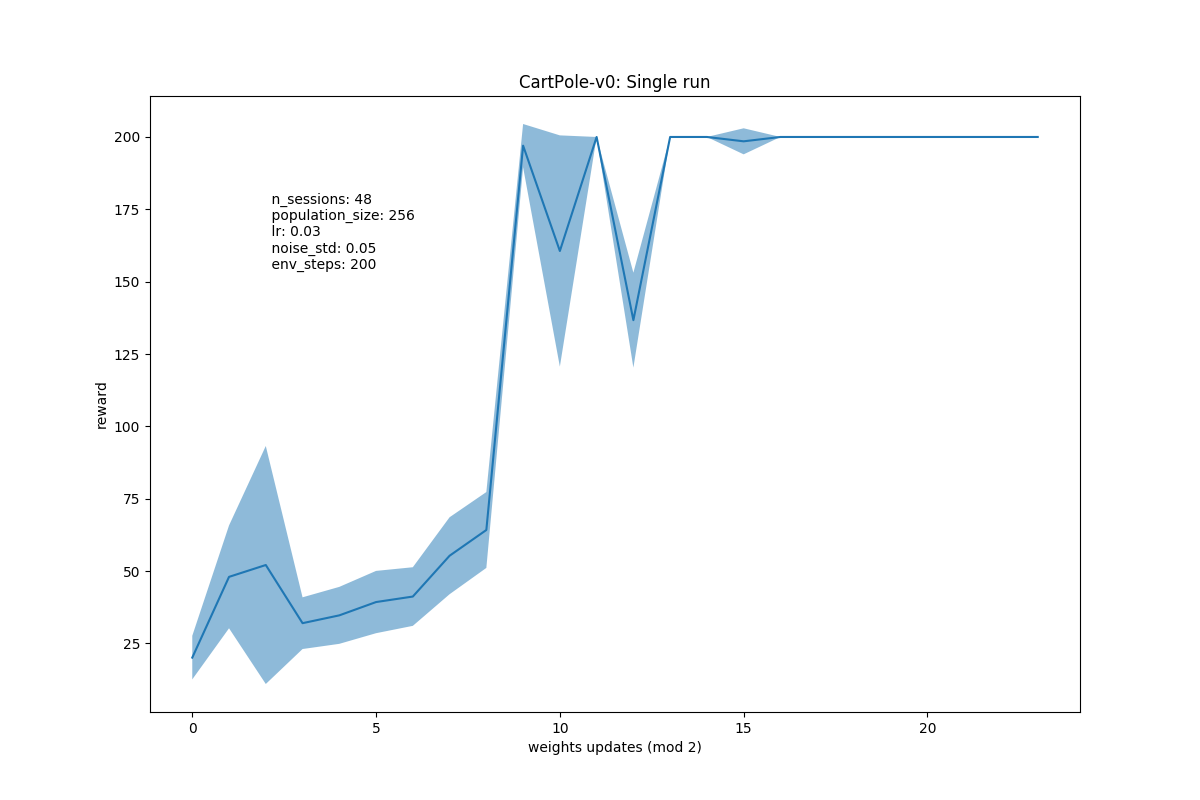
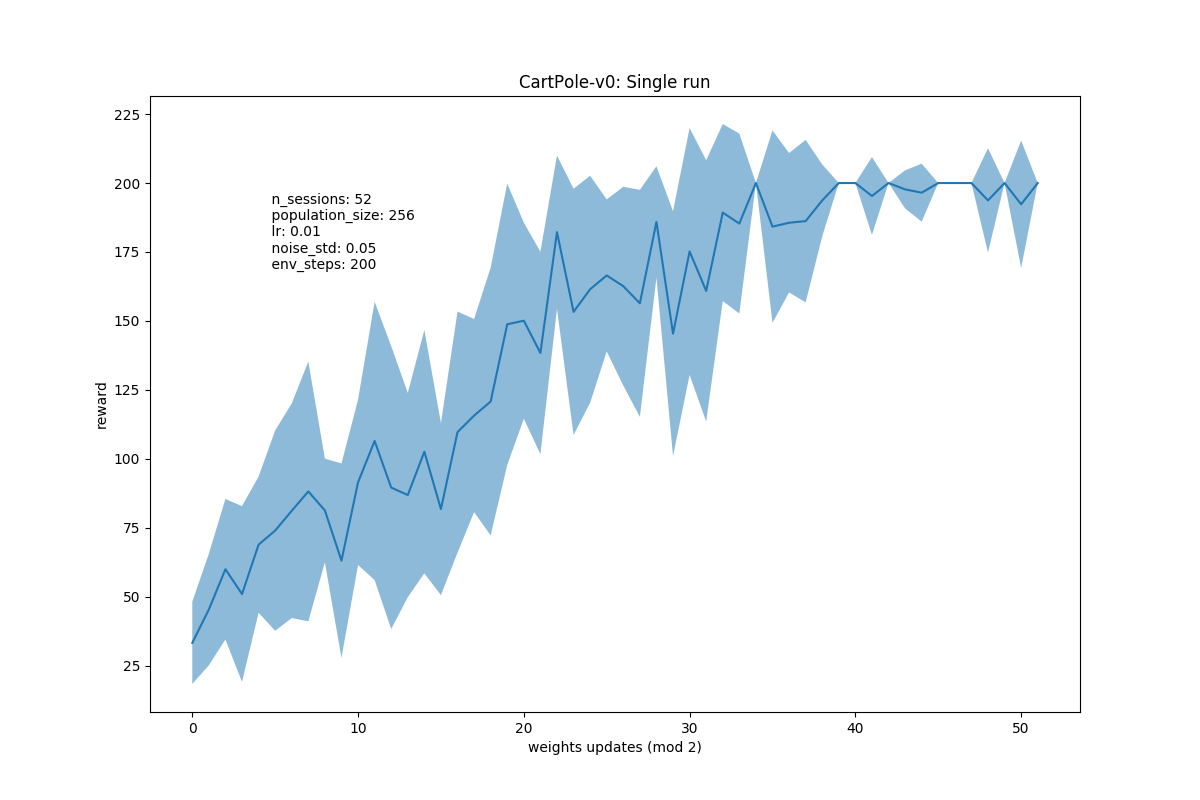
refactor a bit

diff --git a/training.py b/training.py
@@ -1,17 +1,16 @@
 import gym
-
 import numpy as np
-import matplotlib.pyplot as plt
 
 from linear import ThreeLayerNetwork
 from evaluation import eval_policy
 from es import OpenAiES
+from plot import plot_rewards
 
 from collections import defaultdict
 from tqdm import tqdm
 
 
-def train_loop(policy, env, config, log_best=True):
+def train_loop(policy, env, config):
     es = OpenAiES(policy, learning_rate=config["learning_rate"], noise_std=config["noise_std"])
 
     log = defaultdict(list)
@@ -23,22 +22,18 @@ def train_loop(policy, env, config, log_best=True):
             rewards[i] = eval_policy(new_policy, env, n_steps=config["env_steps"])
 
         es.update_population(rewards)
-
-        print(f"Session: {session}") 
-        print(np.mean(rewards))
-        print(np.std(rewards))
         
-        # training stats
-        log["pop_mean_rewards"].append(np.mean(rewards))
-        log["pop_std_rewards"].append(np.std(rewards))
-
         # best policy stats
-        if log_best and session % 2 == 0:
+        if session % 2 == 0:
             best_policy = es.get_model()
 
             best_rewards = np.zeros(10)
             for i in range(10):
                 best_rewards[i] = eval_policy(best_policy, env, n_steps=config["env_steps"])
+
+            print(f"Session: {session}") 
+            print(np.mean(rewards))
+            print(np.std(rewards))
 
             log["best_mean_rewards"].append(np.mean(best_rewards))
             log["best_std_rewards"].append(np.std(best_rewards))            
@@ -47,7 +42,7 @@ def train_loop(policy, env, config, log_best=True):
 
 
 def run_experiment(config):
-    env = gym.make("CartPole-v0")
+    env = gym.make(config["env"])
 
     n_actions = env.action_space.n
     n_states = env.observation_space.shape[0]
@@ -61,44 +56,4 @@ def run_experiment(config):
 
     plot_rewards(log["best_mean_rewards"], log["best_std_rewards"], config)
 
-
-def plot_rewards(mean_rewards, std_rewards, config):
-    best_mean = np.array(mean_rewards)
-    best_std = np.array(std_rewards)
-
-    stats = (
-    f"""
-    n_sessions: {config["n_sessions"]}
-    population_size: {config["population_size"]}
-    lr: {config["learning_rate"]}
-    noise_std: {config["noise_std"]}
-    env_steps: {config["env_steps"]}
-    """
-    )
-    
-    fig, ax = plt.subplots()
-    plt.figure(figsize=(12, 8))
-    plt.text(0.35, 1.25, stats, transform=ax.transAxes)
-    plt.title("CartPole-v0: Single run")
-    plt.plot(np.arange(best_mean.shape[0]), best_mean)
-    plt.fill_between(np.arange(best_mean.shape[0]), best_mean + best_std, best_mean - best_std, alpha=0.5)
-    plt.xlabel("weights updates (mod 2)")
-    plt.ylabel("reward")
-    plt.savefig(f'plots/{config["experiment_name"]}.png')
-
-
-def main():
-    test_config = {
-        "experiment_name": "test_single_v5",
-        "n_sessions": 48,
-        "env_steps": 200, 
-        "population_size": 256,
-        "learning_rate": 0.03,
-        "noise_std": 0.05,
-        "hidden_sizes": (32, 32)
-    }
-    run_experiment(test_config)
-
-
-if __name__ == "__main__":
-    main()
+    return policy

diff --git a/plot.py b/plot.py
@@ -1,0 +1,27 @@
+import numpy as np
+import matplotlib.pyplot as plt
+
+
+def plot_rewards(mean_rewards, std_rewards, config):
+    best_mean = np.array(mean_rewards)
+    best_std = np.array(std_rewards)
+
+    stats = (
+    f"""
+    n_sessions: {config["n_sessions"]}
+    population_size: {config["population_size"]}
+    lr: {config["learning_rate"]}
+    noise_std: {config["noise_std"]}
+    env_steps: {config["env_steps"]}
+    """
+    )
+    
+    fig, ax = plt.subplots()
+    plt.figure(figsize=(12, 8))
+    plt.text(0.35, 1.25, stats, transform=ax.transAxes)
+    plt.title(f"{config['env']}: Single run")
+    plt.plot(np.arange(best_mean.shape[0]), best_mean)
+    plt.fill_between(np.arange(best_mean.shape[0]), best_mean + best_std, best_mean - best_std, alpha=0.5)
+    plt.xlabel("weights updates (mod 2)")
+    plt.ylabel("reward")
+    plt.savefig(f'plots/{config["experiment_name"]}.png')

diff --git a/tests/mountain_car.py b/tests/mountain_car.py
@@ -1,0 +1,28 @@
+import pickle
+import sys 
+
+sys.path.append('..')
+
+from training import run_experiment
+
+
+def test():
+    test_config = {
+        "experiment_name": "test_single_v6",
+        "env": "MountainCar-v0",
+        "n_sessions": 256,
+        "env_steps": 500, 
+        "population_size": 256,
+        "learning_rate": 0.05,
+        "noise_std": 0.1,
+        "hidden_sizes": (16, 16)
+    }
+    
+    policy = run_experiment(test_config)
+
+    with open("../models/test_MountainCar_v6.pkl", "rb") as file:
+        pickle.dump(policy, file)
+
+
+if __name__ == "__main__":
+    test()

diff --git a/evaluation.py b/evaluation.py
@@ -10,6 +10,12 @@ def eval_policy(policy, env, n_steps=200):
         action = policy.predict(np.array(obs).reshape(1, -1))
 
         obs, reward, done, _ = env.step(action)
+        if env.spec._env_name == 'MountainCar': 
+            # метод потенциалов
+            # https://habr.com/ru/company/hsespb/blog/444428/
+            # https://people.eecs.berkeley.edu/~pabbeel/cs287-fa09/readings/NgHaradaRussell-shaping-ICML1999.pdf
+            reward = reward + 200 * (0.4 * abs(obs[1]) - abs(obs[1]))
+
         total_reward = total_reward + reward
 
         if done:

diff --git a/tests/cartpole_single.py b/tests/cartpole_single.py
@@ -1,0 +1,22 @@
+import sys 
+
+sys.path.append('..')
+from training import run_experiment
+
+
+def test():
+    test_config = {
+        "experiment_name": "test_cartpole",
+        "env": "CartPole-v0",
+        "n_sessions": 48,
+        "env_steps": 200, 
+        "population_size": 256,
+        "learning_rate": 0.01,
+        "noise_std": 0.05,
+        "hidden_sizes": (32, 32)
+    }
+    policy = run_experiment(test_config)
+
+
+if __name__ == "__main__":
+    test()

diff --git a/README.md b/README.md
@@ -7,7 +7,7 @@ Implementation is strictly for educational purposes, not distributed and not ver
 
 Easily solves CartPole-V0
 
-![plot](plots/test_single_v4.png)
+![plot](plots/test_single_v5.png)
 
 
 ## TODO
